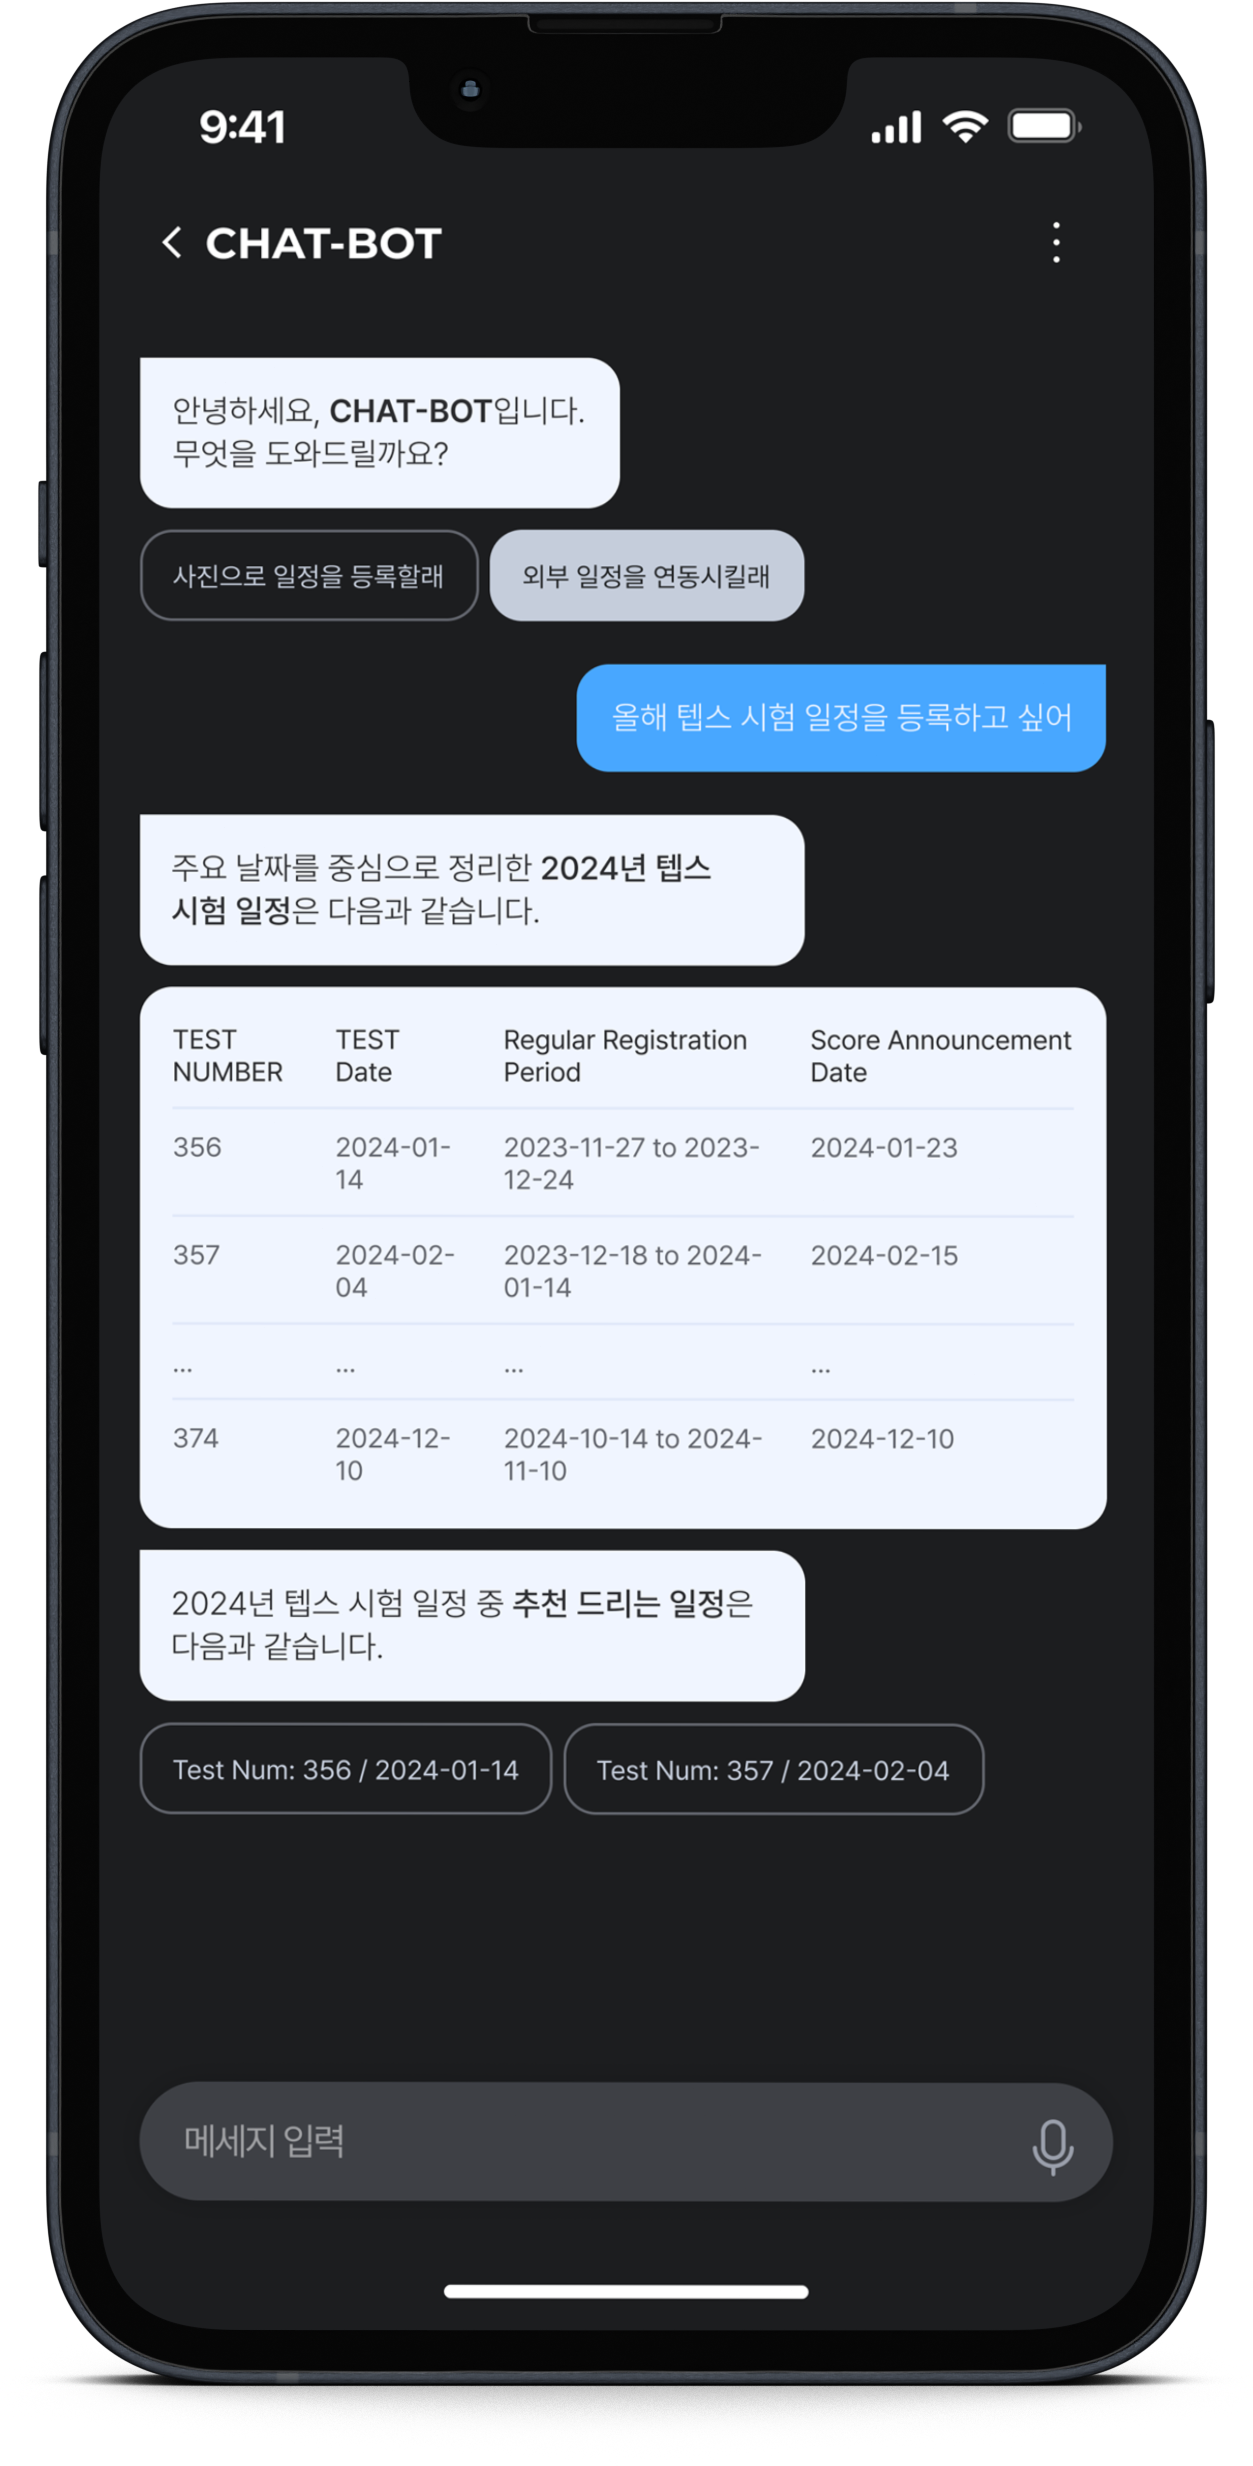
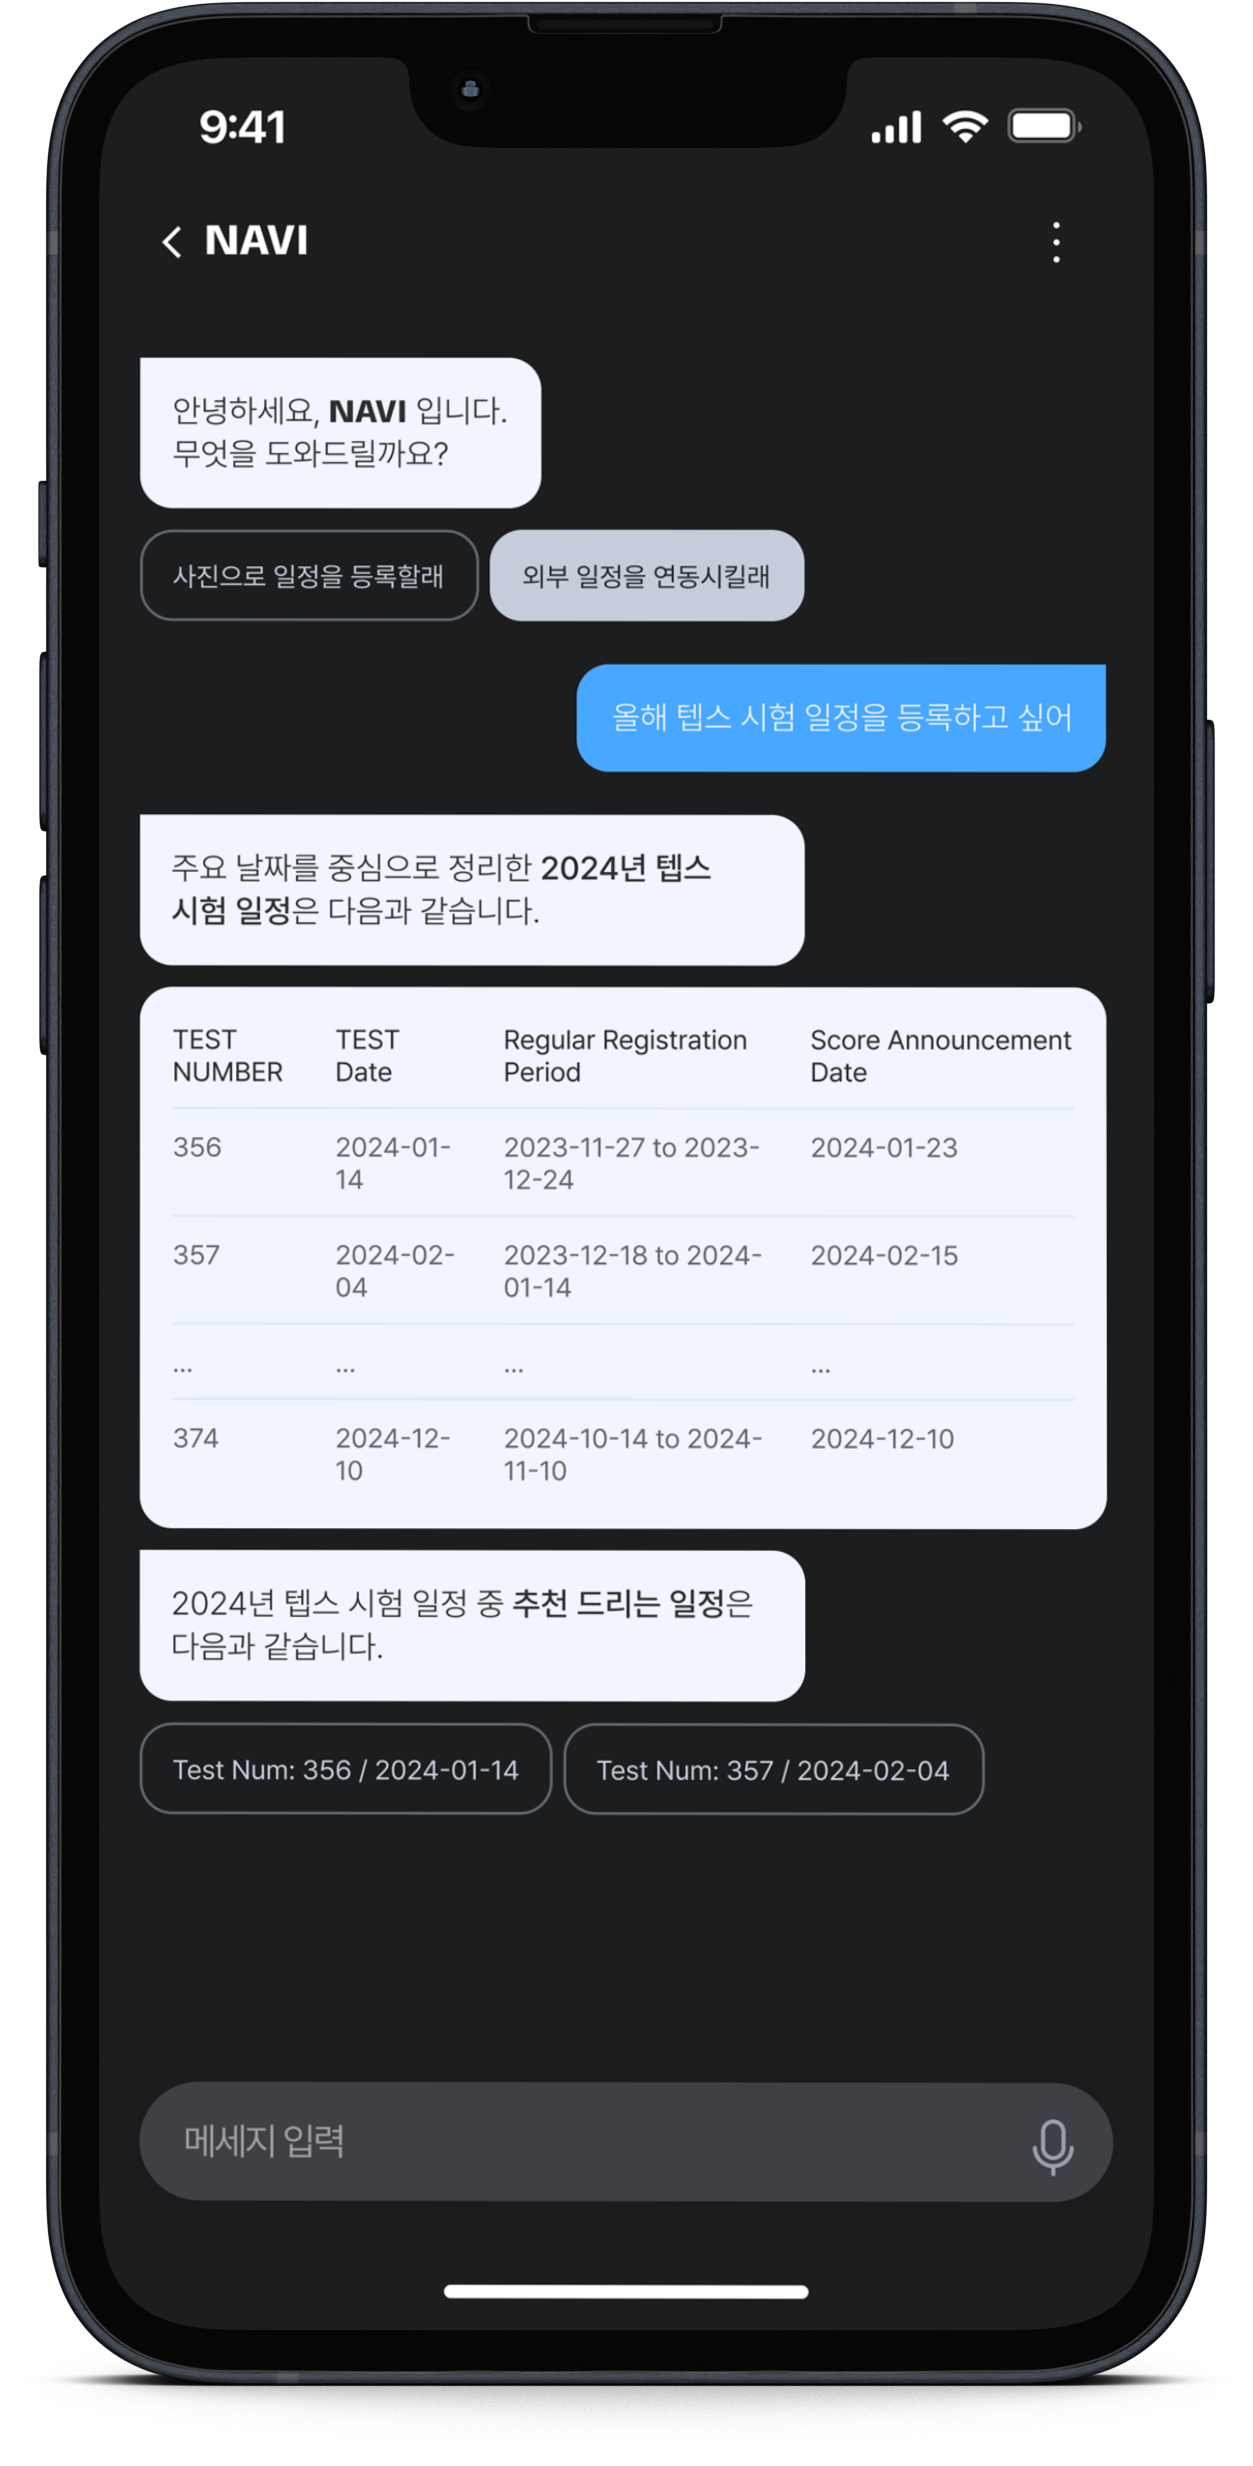
1차 최종 수정

Changed region(s): [[0.249, 0.1249, 0.498, 0.2186], [0.1556, 0.0937, 0.3424, 0.1249]]

diff --git a/src/pages/Landing/Landing.tsx b/src/pages/Landing/Landing.tsx
@@ -82,7 +82,7 @@ export default function Landing() {
           }}
         >
           <span>
-            완벽한 시간 관리
+            완벽한 시간 관리,
           </span>
           <span>
             시간의 정보에 대한 완전한 이해로부터
@@ -106,7 +106,7 @@ export default function Landing() {
           >
             시간은 공간의 흐름이고,
             {isMobile ? '\n' : ' '}
-            공간은 시간의 내용이다
+            공간은 시간의 내용이다.
             <div style={{ opacity: handlScrollDegree(1.1) === 1 ? 1 : 0 }}>
               시간과 공간은 본디 하나로 얽혀 있기에
               {'\n'}
@@ -157,7 +157,7 @@ export default function Landing() {
             className={styles['section2-3__phrase']}
             style={{ opacity: handlScrollDegree(1.55) === 1 ? 1 : 0 }}
           >
-            모든 시간을 정의하고 정리하다
+            모든 시간을 정의하고 정리하다.
             <div style={{ opacity: handlScrollDegree(1.6) === 1 ? 1 : 0 }}>
               시간은 때와 그 사이로 정의됩니다.
               {'\n'}
@@ -231,9 +231,9 @@ export default function Landing() {
           style={{ opacity: handlScrollDegree(isMobile ? 5.5 : 6) }}
         >
           <div className={styles['section3-2__phrase']}>
-            AXST, 바쁜 당신을 위한 최고의 동반자
+            NAVI, 바쁜 당신을 위한 최고의 동반자
             <div>
-              AXYZ의 AXST는 사용자가 인터넷 검색 없이
+              NAVI의 AXST는 사용자가 인터넷 검색 없이
               {'\n'}
               자동으로 필요한 정보를 찾아
               {'\n'}

diff --git a/src/pages/PreApplication/components/ApplicationPage.tsx b/src/pages/PreApplication/components/ApplicationPage.tsx
@@ -90,9 +90,9 @@ export default function ApplicationPage() {
           </clipPath>
         </defs>
       </svg>
-      {stage > 0 && <Input step={1} placeholder="* 이름을 작성해 주세요 :)  ex. 이창중" inputText={inputText} nextStage={nextStage} />}
-      {stage > 1 && <Input step={2} placeholder="* 연락처를 작성해 주세요 :) ex. 010-XXXX-XXXX" inputText={inputText} nextStage={nextStage} />}
-      {stage > 2 && <Input step={3} placeholder="* 이메일을 작성해 주세요 :) ex. ot3233@naver.com" inputText={inputText} nextStage={nextStage} />}
+      {stage > 0 && <Input step={1} placeholder="* 이름을 작성해 주세요  ex. 홍길동" inputText={inputText} nextStage={nextStage} />}
+      {stage > 1 && <Input step={2} placeholder="* 연락처를 작성해 주세요  ex. 010-XXXX-XXXX" inputText={inputText} nextStage={nextStage} />}
+      {stage > 2 && <Input step={3} placeholder="* 이메일을 작성해 주세요  ex. axyz@today.com" inputText={inputText} nextStage={nextStage} />}
       {stage > 3
           && (
           <>

diff --git a/src/pages/Landing/Landing.module.scss b/src/pages/Landing/Landing.module.scss
@@ -183,7 +183,8 @@
 .section2-1 {
   @include section;
   font-size: 76px;
-  font-weight: 700;
+  font-weight: 850;
+  letter-spacing: -2%;
   color: #ffffff;
   transition: 0.5s;
   word-break: keep-all;
@@ -226,6 +227,7 @@
   &__phrase {
     margin-top: 90px;
     font-size: 44px;
+    font-weight: 750;
     transition: 0.5s;
     word-break: keep-all;
 
@@ -281,7 +283,7 @@
 
   &__phrase {
     margin-top: 90px;
-    font-weight: 400;
+    font-weight: 750;
     font-size: 44px;
     transition: 0.5s;
     word-break: keep-all;
@@ -411,7 +413,8 @@
   @include section;
   font-size: 76px;
   color: #ffffff;
-  font-weight: 700;
+  font-weight: 850;
+  letter-spacing: -2%;
   text-align: center;
   white-space: pre-wrap;
   transition: 0.5s;

diff --git a/src/pages/PreApplication/PreApplication.module.scss b/src/pages/PreApplication/PreApplication.module.scss
@@ -180,6 +180,7 @@ body {
       margin-bottom: 20px;
       border: none;
       outline: none;
+      border-radius: 24px;
       @include media.media-breakpoint-down(mobile) {
         width: 311px;
         height: 44px;
@@ -194,6 +195,7 @@ body {
       background-color: #f0f0f0;
       line-height: 20px;
       margin-bottom: 20px;
+      border-radius: 32px;
       border: none;
       outline: none;
       resize: none;
